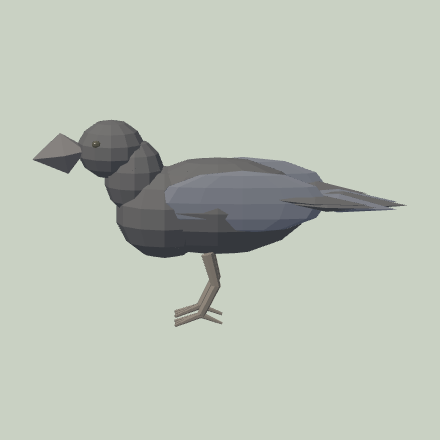
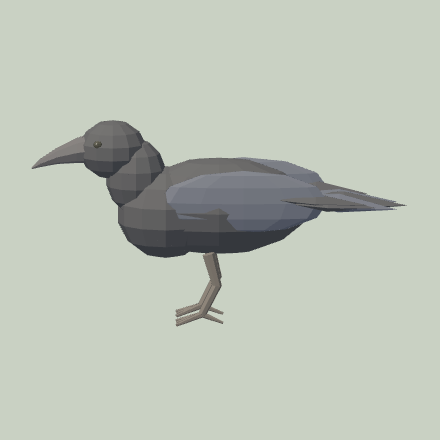
El cuervo: el pico, macizo y curvo
De perfil el rombo de las plumas dejaba el pico en punta de flecha, como vio
Vera. Ahora nace ancho de la cara y se afina con una curva hacia abajo.

Claude-Session: https://claude.ai/code/session_01XEUqMLS5ySzN2EeA2LcX3M

diff --git a/deliverables/marked-models-trial/build-models.py b/deliverables/marked-models-trial/build-models.py
@@ -638,7 +638,9 @@ def crow():
     ell('Breast',(-.038,0,.106),(.090,.080,.088),'coat',body,12,7)
     neck=empty('neck',(-.058,0,.130),body); ell('Neck',(-.066,0,.140),(.056,.056,.072),'coat',neck)
     head=empty('head',(-.082,0,.162),neck); ell('Head',(-.088,0,.166),(.062,.054,.056),'coat',head,12,7)
-    leaf('Beak',(-.112,0,.166),(-.162,0,.156),.028,.020,'beak',head)
+    # Pico macizo que nace ancho de la cara y se afina con una curva hacia
+    # abajo; el rombo de las plumas lo dejaba de perfil en punta de flecha.
+    loft('Beak',[(-.104,.168,.016,.015),(-.122,.165,.013,.012),(-.140,.160,.008,.008),(-.156,.153,.004,.004),(-.164,.148,.001,.001)],'beak',head,8)
     for s in (-1,1):
         eye('Eye_'+str(s),-.102,s*.023,.175,.008,head)
     wings=[]

diff --git a/deliverables/marked-models-trial/README.md b/deliverables/marked-models-trial/README.md
@@ -113,7 +113,9 @@ no se confunde con la perdiz ni con el zorro. Mismo tamaño que la de G-23;
 ## El cuervo (29 sep 2026) — candidato, **sin publicar**
 
 `crow()` en `build-models.py`, sobre la estructura de la gallina pero esbelto:
-negro con brillo azulado en las alas, pico grueso, alas largas pegadas al
+negro con brillo azulado en las alas, pico macizo que se afina con una curva
+hacia abajo (el rombo de las plumas lo dejaba de perfil en punta de flecha),
+alas largas pegadas al
 cuerpo y cola en cuña maciza. Mismo tamaño que el de G-23; `rigid-clips.mjs …
 crow` le da el paso y el picoteo, sin vuelo, como hoy.
 
